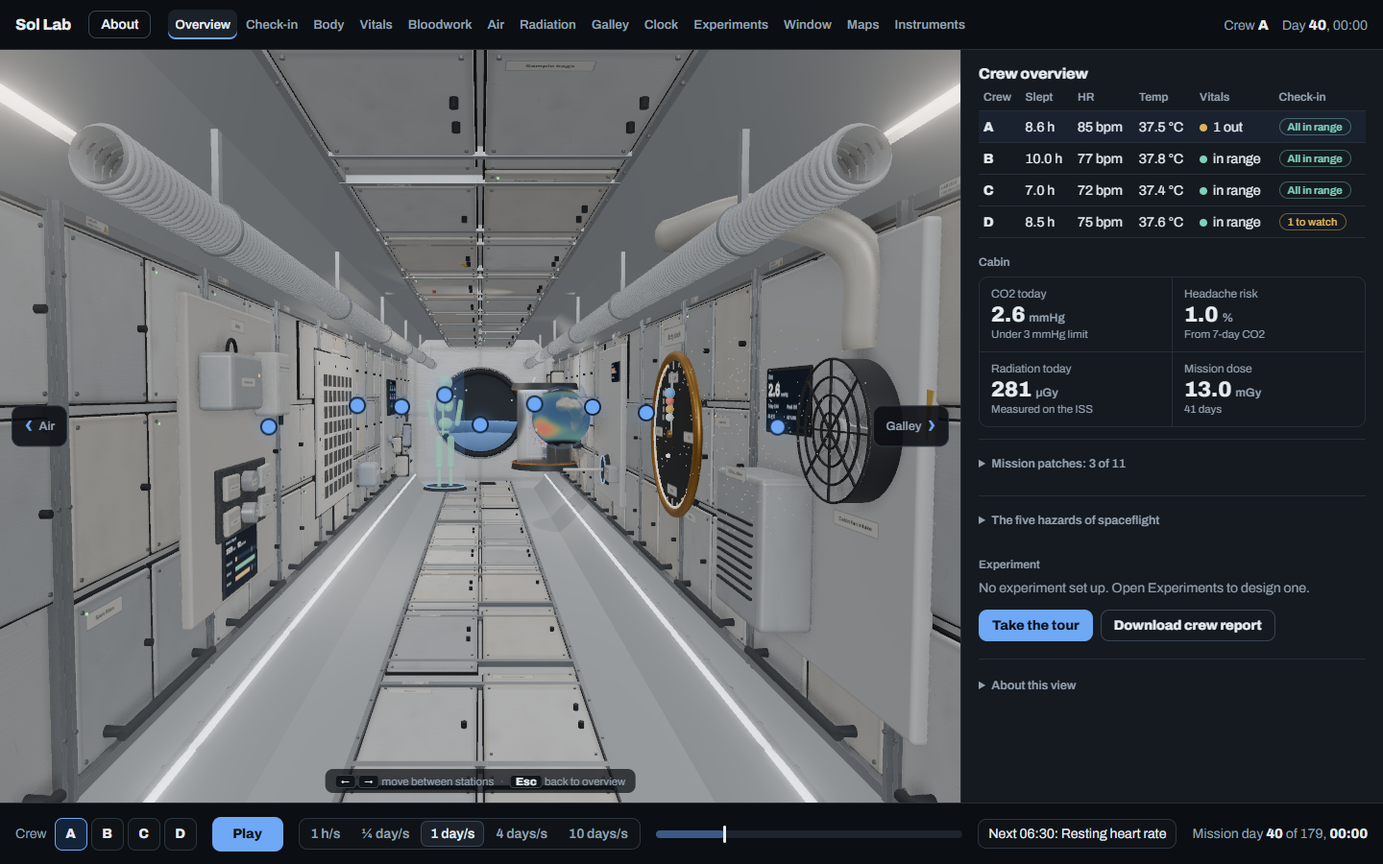
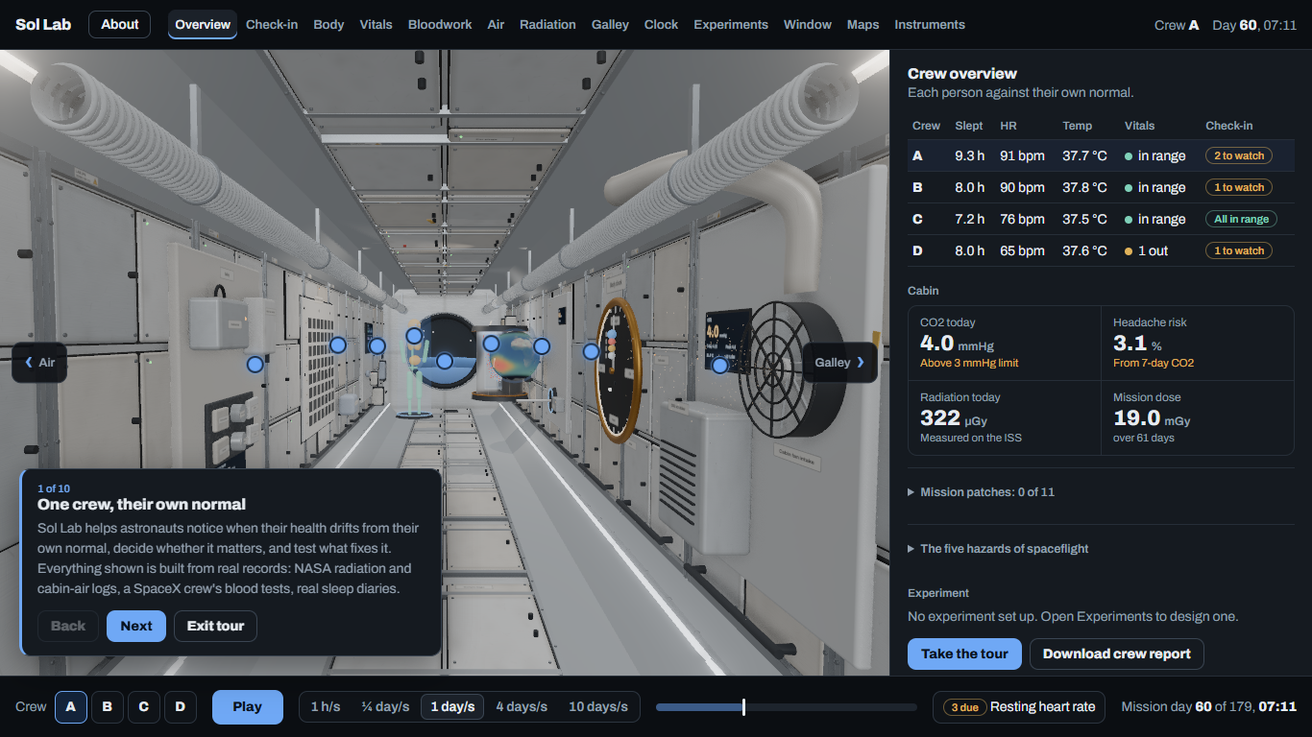
Judge's-view pass: fix NaN camera on zero-size load and slow-frame glides, open on day 60, rebuilt README and pitch around gather/evaluate/act, judge review with scores

diff --git a/lab/src/main.js b/lab/src/main.js
@@ -130,6 +130,9 @@ async function boot() {
   // the hatch end, on the side walls) sit inside the frame at the stage's current shape.
   const fitOverview = () => {
     const halfW = Math.tan(THREE.MathUtils.degToRad(camera.fov / 2)) * camera.aspect;
+    // A page opened in a hidden or zero-size window has no aspect yet; keep the default view
+    // until a real size arrives (a NaN here used to break every later camera move).
+    if (!Number.isFinite(halfW) || halfW <= 0) return;
     views.overview.pos.z = THREE.MathUtils.clamp(3.7 + (W + 0.05) / (0.8 * halfW), 5.4, 8.5);
     if (rig.current === "overview") rig.go("overview", { duration: 0 });
   };
@@ -137,7 +140,7 @@ async function boot() {
   window.addEventListener("resize", () => { R.onResize(); fitOverview(); });
 
   // ---------------- state ----------------
-  const S = { tab: "overview", met: 0.3, bodyPart: "heart", mapsOn: false, playing: false, speed: 1, crewSel: 0, dest: "iss", destLabel: DESTINATIONS.iss.label, simHours: dayStartHours, clockLux: 300, brightWake: false };
+  const S = { tab: "overview", met: 60.3, bodyPart: "heart", mapsOn: false, playing: false, speed: 1, crewSel: 0, dest: "iss", destLabel: DESTINATIONS.iss.label, simHours: dayStartHours, clockLux: 300, brightWake: false };
   const E = {
     step: 1, maxStep: 1, intervention: "caffeine", outcomeKey: "sleep_latency", speed: INTERVENTIONS.caffeine.speed,
     delta: OUTCOMES.sleep_latency.delta, thr: 0.95, mode: "hidden", practiceMult: 1.5, noise: "sim", crewMode: false,
@@ -289,7 +292,7 @@ async function boot() {
 
   PANELS.overview = {
     mount(root) {
-      root.innerHTML = `<h2>Crew overview</h2><p class="lede">Each measure is compared with that person's own pre-flight range, not a population norm. Amber marks a measure outside that range; nothing alarms.</p>
+      root.innerHTML = `<h2>Crew overview</h2><p class="tagline">Each person against their own normal.</p><p class="lede">Each measure is compared with that person's own pre-flight range, not a population norm. Amber marks a measure outside that range; nothing alarms.</p>
         <table class="grid" id="ovCrew"><thead><tr><th>Crew</th><th>Slept</th><th>HR</th><th>Temp</th><th>Vitals</th><th>Check-in</th></tr></thead><tbody></tbody></table>
         <h3>Cabin</h3><div class="kpis" id="ovCabin"></div>
         <details class="fold"><summary id="ovPatchTitle">Mission patches</summary><div class="patches" id="ovPatches"></div></details>
@@ -316,7 +319,7 @@ async function boot() {
       $("#ovCabin").innerHTML = kpi("CO2 today", env.co2[i].toFixed(1), "mmHg", env.co2[i] > AIR_LIMITS.co2_1h_mmHg ? "Above 3 mmHg limit" : "Under 3 mmHg limit", env.co2[i] > AIR_LIMITS.co2_1h_mmHg)
         + kpi("Headache risk", (env.headache[i] * 100).toFixed(1), "%", "From 7-day CO2", env.headache[i] > 0.01)
         + kpi("Radiation today", Math.round(radToday()), "µGy", "Measured on the ISS", false)
-        + kpi("Mission dose", (radTotal() / 1000).toFixed(1), "mGy", `${today() + 1} days`, false);
+        + kpi("Mission dose", (radTotal() / 1000).toFixed(1), "mGy", `over ${today() + 1} day${today() ? "s" : ""}`, false);
       $("#ovExp").textContent = !E.mission ? "No experiment set up. Open Experiments to design one." : E.started ? `Day ${E.day} of ${E.days}: "${intervention().label}" on ${outcome().label.toLowerCase()}${E.crew ? ", whole crew" : ""}.` : E.done ? "Finished. See Experiments for the result." : E.locked ? "Plan locked; ready to start." : "Plan being set up.";
     },
   };
@@ -639,7 +642,8 @@ async function boot() {
       const labels = BLOOD.timepoints.map((t) => t.replace("L-", "−").replace("R+", "+"));
       for (const p of BLOOD.panels) for (const a of p.analytes) {
         const row = $(`[data-b="${a.key}"]`), st = bloodState(k, a);
-        row.querySelector(".val").innerHTML = st.ret == null ? "–" : `${st.ret} <small>${esc(a.unit)}</small>`;
+        const dec = Math.max(...st.vals.filter((v) => v != null).map((v) => (String(v).split(".")[1] || "").length));
+        row.querySelector(".val").innerHTML = st.ret == null ? "–" : `${st.ret.toFixed(Math.min(2, dec))} <small>${esc(a.unit)}</small>`;
         const s = row.querySelector(".state");
         s.textContent = st.text;
         s.className = `state ${st.cls}`;
@@ -664,7 +668,7 @@ async function boot() {
       const d = today(), rate = radiation.rateAt();
       $("#radH").textContent = `Daily dose, 60 days`;
       $("#radK").innerHTML = kpi("Today", Math.round(radToday()), "µGy", `Typical ${Math.round(radMean)}`, false)
-        + kpi("Mission so far", (radTotal() / 1000).toFixed(1), "mGy", `${d + 1} days`, false)
+        + kpi("Mission so far", (radTotal() / 1000).toFixed(1), "mGy", `over ${d + 1} day${d ? "s" : ""}`, false)
         + kpi("Rate now", rate.toFixed(1), "µGy/h", rate > 20 ? "High-dose region" : "Quiet orbit", rate > 20)
         + kpi("180-day mission", ((radMean * 180) / 1000).toFixed(0), "mGy", "Projected", false);
       $("#radChart").innerHTML = bars(radSeries, { upTo: d, window: 60, unit: "µGy" });

diff --git a/lab/index.html b/lab/index.html
@@ -27,6 +27,8 @@
         <form method="dialog"><button class="about-close" aria-label="Close">Close</button></form>
         <h2 id="aboutTitle">About Sol Lab</h2>
         <p>A health tool for astronauts. Each crew member logs a few measurements a day; the tool compares them with that person's own normal, says plainly whether anything needs attention and what to do, and helps test which changes actually help.</p>
+        <h3>Why it matters</h3>
+        <p>Far from Earth, crews must judge their own health. Comparing each person with their own normal catches changes that population ranges miss, and a fair self-test stops anyone trusting a lucky streak. The same approach helps people far from a doctor on Earth: polar and offshore crews, rural patients, anyone tracking a long-term condition.</p>
         <h3>Using it</h3>
         <p>Tabs along the top open each station; click objects in the module to jump to them. Space plays the mission, 1 to 0 switch tabs, Left and Right move between stations, Shift with Left or Right steps a day. The <b>1 h/s</b> speed runs the daily routine with reminders. Each tab has an "About this view" section at the bottom with its sources.</p>
         <h3>Real data</h3>

diff --git a/lab/src/scene/cameraRig.js b/lab/src/scene/cameraRig.js
@@ -1,6 +1,10 @@
 import * as THREE from "three";
 import gsap from "gsap";
 
+// Moves are timed by the clock, not by frames: on a slow machine (or software rendering) GSAP's
+// default lag smoothing stretched a 2-second glide into a minute.
+gsap.ticker.lagSmoothing(0);
+
 // Camera glides between stations with an ease-in-out move, then holds still. Reduced motion:
 // jumps instead of glides.
 export function createCameraRig(camera, dom, views) {
@@ -15,7 +19,9 @@ export function createCameraRig(camera, dom, views) {
     current = name;
     gsap.killTweensOf(camera.position);
     gsap.killTweensOf(target);
-    if (reduced || duration === 0 || window.__solInstant) {
+    const p = camera.position;
+    const broken = !Number.isFinite(p.x + p.y + p.z) || !Number.isFinite(target.x + target.y + target.z);
+    if (reduced || duration === 0 || window.__solInstant || broken) {
       camera.position.copy(v.pos);
       target.copy(v.look);
       onDone && onDone();

diff --git a/lab/src/scene/renderer.js b/lab/src/scene/renderer.js
@@ -25,7 +25,7 @@ export function createRenderer(container, { quality = "high" } = {}) {
   scene.environment = pmrem.fromScene(new RoomEnvironment(), 0.04).texture;
   scene.environmentIntensity = 0.32;
 
-  const camera = new THREE.PerspectiveCamera(56, container.clientWidth / container.clientHeight, 0.02, 1500);
+  const camera = new THREE.PerspectiveCamera(56, container.clientWidth / container.clientHeight || 16 / 9, 0.02, 1500);
 
   const size = () => [container.clientWidth, container.clientHeight];
   const [w, h] = size();
@@ -49,6 +49,7 @@ export function createRenderer(container, { quality = "high" } = {}) {
 
   const onResize = () => {
     const [nw, nh] = size();
+    if (!nw || !nh) return; // hidden or minimised: keep the last good size
     camera.aspect = nw / nh;
     camera.updateProjectionMatrix();
     renderer.setSize(nw, nh);

diff --git a/lab/src/ui/tour.js b/lab/src/ui/tour.js
@@ -37,7 +37,7 @@ export function createTour({ host, show }) {
     if (b.dataset.t === "next") { if (k < TOUR.length - 1) { k++; render(); } else { stop(); onDone && onDone(); } }
   });
   addEventListener("keydown", (e) => { if (!el.hidden && e.key === "Escape") stop(); });
-  function start(done) { onDone = done; k = 0; el.hidden = false; render(); }
-  function stop() { el.hidden = true; }
+  function start(done) { onDone = done; k = 0; el.hidden = false; host.classList.add("touring"); render(); }
+  function stop() { el.hidden = true; host.classList.remove("touring"); }
   return { start, stop, active: () => !el.hidden };
 }

diff --git a/lab/src/styles.css b/lab/src/styles.css
@@ -345,3 +345,6 @@ input[type="file"] { color: var(--muted); }
 .bp-tag.dim { opacity: 0.35 !important; }
 .bp-note { position: relative; padding: 8px 14px; color: #9db6dc; font-size: 0.82em; border-top: 1px solid rgba(140, 180, 240, 0.2); }
 @media (prefers-reduced-motion: reduce) { .bp-tag { transition: none; } }
+
+.tagline { margin: 0 0 10px !important; color: var(--muted); }
+.touring .nav-hint { display: none; }

diff --git a/README.md b/README.md
@@ -1,37 +1,67 @@
 # Sol Lab
 
-**NASA Space Apps 2026, "Create Health Monitoring Software for Astronauts on Space Missions."** Team owner: Palash (San Marino, CA).
+**A daily health check-in for astronauts that compares every reading with their own normal, says plainly what to do and when to call the flight surgeon, and helps them test what actually fixes it.**
 
-Every other entry we found watches astronauts and raises alerts. Sol Lab helps a crew member find out what actually works for *their own* body during a mission: design a small, fair experiment ("does cutting caffeine after noon help me fall asleep faster?"), run it in a 3D station module, and get an honest verdict, including "not settled". A whole crew can run the same experiment, and each person's answer gets sharper from what the crew shares.
+NASA Space Apps 2026, "Create Health Monitoring Software for Astronauts on Space Missions". Team: Palash (owner) and ktm331, San Marino, CA.
 
-It is laid out as a crew health console: a 3D station module on the left, an inspector on the right, and a mission timeline along the bottom. Each station in the module is a working part of the tool. Keys 1 to 0 switch stations, Space plays the mission (1 h/s runs the daily routine with gentle reminders), and the overview exports a crew report.
+**Try it:** `https://palashraks-afk.github.io/NASA-Space-Apps/` (live once Pages is switched on, see below). It opens with a 10-step guided tour.
 
-![Console overview](docs/img/console-overview.png)
+![Overview](docs/img/console-overview.png)
+
+## Gather, evaluate, act
+
+| Gather | Evaluate | Act |
+|---|---|---|
+| ![Check-in](docs/img/checkin.png) | ![Body figure](docs/img/body.png) | ![Experiments](docs/img/crew-running.png) |
+| A two-minute daily check-in: blood pressure, heart rate, blood sugar, temperature, sleep, mood, exercise. Typed in, or imported from any device as CSV or FHIR. Timed reminders follow the daily routine. | Each value is compared with that person's own normal and given one of three calm levels: within range, keep an eye on it, talk to the flight surgeon. A clickable 3D body shows which parts are affected and how spaceflight changes them. | Every non-normal level comes with what to do next. When something keeps drifting, the crew runs a fair self-experiment and gets an honest verdict, including "not settled". |
+
+## Why it matters
+
+On a Mars mission a message to Earth takes up to 22 minutes each way, so crews must judge their own health. Population ranges miss changes that are large for one person but normal for another; comparing each astronaut with their own normal catches them earlier, and a fair self-test stops a crew member trusting a lucky streak. The same approach helps people far from a doctor on Earth: Antarctic and offshore crews, rural patients, anyone tracking a long-term condition at home.
+
+## Built on real data
+
+| Record | Source | In the app |
+|---|---|---|
+| 123,695 ISS radiation readings, plus daily dose in six modules | NASA OSDR RadLab (DLR DOSTEL, REM detectors) | Radiation globe, module map, orbit map |
+| 358 days of ISS cabin CO2, temperature and humidity | NASA OSDR Environmental Data App | Air station, life-support map, headache risk |
+| Blood tests of the four Inspiration4 astronauts, before and after flight | NASA OSDR OSD-569, OSD-575 (SpaceX mission) | Bloodwork |
+| Sleep diaries of 49 people | Baigutanova et al. 2025, CC BY | Sleep values, experiment validation |
+| Nutrients of 19 foods | USDA FoodData Central | Galley |
+| ISS orbital elements | CelesTrak, propagated with SGP4 | Window, ground track |
+
+Where nobody logged a value, it is simulated and labelled "simulated" on screen. Records from different people and years are combined into one mission.
+
+## How it answers the brief
+
+| The brief asks | Where |
+|---|---|
+| Gather indicators (keyboard, clicks, files) | Check-in; Instruments import |
+| Evaluate status, colour at a glance | Three levels everywhere; overview; body figure |
+| Guidance on treatment and improvement | Actions on every non-normal level; experiments |
+| When to involve the flight surgeon | "For the flight surgeon" box |
+| Blood pressure, heart rate, blood sugar, temperature, sleep, mood | All six, plus exercise |
+| Five hazards of spaceflight | Overview, each linked to its stations |
+| Clickable human figure | Body |
+| Routine prompts, gamification, charts, instructions | Reminders, mission patches, every station, "How to measure" on every card |
+
+## Validated, not just built
+
+- On 49 real people's sleep diaries the self-experiment engine made a false call 0.68% of the time; its 95% intervals covered 94.7% to 97.3% (pre-registered, [docs/STUDIES_RESULTS.md](docs/STUDIES_RESULTS.md)).
+- Two pre-registered checks failed and are reported, not hidden: a first pooling method under-covered (fixed and re-tested), and the circadian model locks onto a Mars day more easily than a 2007 human study found.
+- Guidance cut-offs follow ACC/AHA, ADA, CDC, AHA and AASM; where no published cut-off exists, the team's choice is marked for clinician review.
+- 38 automated tests; every push is checked, tested and built.
+
+## More screens
 
 | | |
 |---|---|
-| ![Daily check-in](docs/img/checkin.png) | ![Overview with hazards](docs/img/console-overview.png) |
-| Check-in: the astronaut logs blood pressure, heart rate, blood sugar, temperature, sleep, mood and exercise, each with how-to instructions; every value gets one of three calm levels (within range / keep an eye on it / talk to the flight surgeon) with actions to take. | Overview: each crew member's vitals and check-in status, cabin air, radiation, and NASA's five hazards of spaceflight linked to the stations that track them. |
-| ![Body figure](docs/img/body.png) | ![Orbit and radiation map](docs/img/map-orbit.png) |
-| Body: a clickable 3D figure; each part (brain, eyes, heart, lungs, gut, bones, muscles, immune system) is coloured by today's measurements and explains what it does and how spaceflight affects it. | Maps: the ISS ground track from real orbital elements over Earth's day and night, with the radiation dose measured along the orbit. |
-| ![Station module map](docs/img/map-station.png) | ![Life support map](docs/img/map-life-support.png) |
-| Station map: measured daily dose in six ISS modules (REM detectors, Dec 2019). | Life support: the CO2, water and oxygen loop, with the replayed day's real cabin readings. |
-| ![Instruments blueprint](docs/img/instruments.png) | |
-| Instruments: the real ISS hardware behind each reading (blood pressure unit, Bio-Monitor, DOSTEL, CDRA, T2 and more) as exploded blueprints, plus universal import of CSV or FHIR files from any device. Parts and sources: [docs/INSTRUMENTS.md](docs/INSTRUMENTS.md). | |
-| ![Medical station](docs/img/medical.png) | ![Air station](docs/img/air.png) |
-| Medical: heart rate, HRV, core temperature and sleep for each crew member, against their own pre-flight range. Out-of-range values are marked, never alarmed. | Air: cabin CO2, 7-day average, headache risk (Law et al. 2014), temperature and humidity against NASA-STD-3001. The fan and airflow respond to CO2. |
-| ![Radiation station](docs/img/radiation.png) | ![Bloodwork](docs/img/bloodwork.png) |
-| Radiation: real ISS dose readings (NASA OSDR RadLab, DOSTEL-1, 2022) on a globe; the station marker flies a real day of track through the South Atlantic Anomaly. | Bloodwork: real blood tests of the four Inspiration4 astronauts (SpaceX, 2021; NASA OSDR), each compared with their own pre-flight draws. |
-| ![Galley station](docs/img/galley.png) | ![Crew mode mid-mission](docs/img/crew-running.png) |
-| Galley: each day's menu with USDA nutrient values, against NASA exploration targets for vitamin D, calcium and sodium. | Experiments: a randomized self-experiment run by the whole crew; each member's chance it works, with the crew and alone. |
-| ![Body clock on Mars](docs/img/body-clock.png) | ![Mars through the window](docs/img/window-mars.png) |
-| Body clock: a published circadian model running for four crew. | Destination: real ISS orbit (SGP4, CelesTrak), Moon or Mars. |
-
-## Guided tour
-
-The app opens with a 10-step tour on first visit (or add `?tour=1` to the address, or press **Tour** in the top bar). Mission patches on the overview reward check-ins, exploring and finished experiments; nothing is ever taken away.
-
-![Guided tour](docs/img/tour.png)
+| ![Orbit and radiation map](docs/img/map-orbit.png) | ![Instruments blueprint](docs/img/instruments.png) |
+| Maps: real ISS ground track over day and night with the measured dose rate; a module dose map; the life-support loop. | Instruments: the real ISS hardware behind each reading as exploded blueprints ([docs/INSTRUMENTS.md](docs/INSTRUMENTS.md)). |
+| ![Bloodwork](docs/img/bloodwork.png) | ![Radiation station](docs/img/radiation.png) |
+| Bloodwork: Inspiration4 astronauts against their own pre-flight draws. | Radiation: the globe lights up over the South Atlantic Anomaly. |
+| ![Air station](docs/img/air.png) | ![Body clock](docs/img/body-clock.png) |
+| Air: real ISS CO2 against the 3 mmHg limit. | Body clock: a published circadian model for four crew. |
 
 ## Run it
 
@@ -41,17 +71,13 @@ npm install
 npm run dev      # http://localhost:5199
 npm test         # 38 tests: statistics engine, pooling, missions, orbit, crew health, guidance, real data files
 npm run check    # syntax check of every file
+npm run verify   # check + tests + production build
 npm run build    # static, works offline from any folder (dist/)
 ```
 
-## What is new, and how we checked
+## Novelty
 
-- **Crew-run self-experiments for spaceflight.** We found no N-of-1, single-case or crew-run randomized self-experiment work in spaceflight or analog missions, and none among about ten public Space Apps 2026 repos for this challenge (search on 2026-11-01; private work cannot be ruled out). N-of-1 apps and pooled N-of-1 trials exist on Earth; the spaceflight crew application is the new part. Details: [docs/STUDIES_RESULTS.md](docs/STUDIES_RESULTS.md).
-- **Validated, not just built.** Three studies were pre-registered before running ([docs/STUDIES_PREREG.md](docs/STUDIES_PREREG.md)):
-  - On 49 real people's sleep diaries, the engine made a false call 0.68% of the time when nothing was there, its 95% intervals covered 94.7% to 97.3%, and the in-app power preview matched real-data power within 4 points.
-  - Crew pooling cut each person's error by 20% to 45%. Our first pooling method failed its coverage bar (83% to 86%); the fixed method, pre-registered after that failure, passed (90.9% to 97.8%).
-  - The circadian model failed one pre-registered check against a 2007 human Mars-sol study; the app says so.
-- **Honest about limits.** A single four-week self-experiment usually ends "not settled" (about 10% to 14% of the time it settles a change 1.5 times the smallest worthwhile one). The app shows this before you start.
+We found no crew-run randomized self-experiment tool for spaceflight or analog missions in public sources, and none among the public entries for this challenge (searched 2026-11-01; private work cannot be ruled out). Self-experiments (N-of-1 trials) exist on Earth; applying them to a crew in flight, alongside personal-baseline monitoring on real mission data, is the new part.
 
 ## Where things are
 
@@ -59,7 +85,8 @@ npm run build    # static, works offline from any folder (dist/)
 - `docs/design.md`: concept, features, art direction
 - `docs/STUDIES_PREREG.md`, `docs/STUDIES_RESULTS.md`: validation studies
 - `docs/BUILD_LOG.md`: every decision made during the build, with reasons
-- `docs/PITCH.md`: 30-second summary, demo script, claims we can and cannot make
+- `docs/PITCH.md`: one sentence, 30-second version, demo script, how it answers the brief, claims we can and cannot make
+- `docs/GAP_ANALYSIS.md`, `docs/JUDGE_REVIEW.md`: honest scoring against the criteria and what was fixed
 - `analysis/`: all study outputs and simulations
 - `research_notes/`: judging research, competitor field, idea screening, evidence
 - `archive/`: earlier concepts (CALLSIGN, ECHO), kept for the record

diff --git a/docs/PITCH.md b/docs/PITCH.md
@@ -1,32 +1,58 @@
 # Pitch material
 
+## One sentence
+
+Sol Lab gives each astronaut a daily check-in that compares every reading with their own normal, says plainly what to do and when to call the flight surgeon, and helps them test which change actually fixes it, built on real NASA and SpaceX crew data.
+
 ## 30-second version
 
-Astronauts carry most of the responsibility for spotting and fixing changes in their own health, and what works differs from person to person. Every entry we found monitors and alerts. Sol Lab lets a crew member find out what works for their own body: design a small, fair experiment, run it in a 3D station module, and get an honest answer, including "not settled". Run it as a crew, and each person's answer gets sharper from what the crew shares. We checked it on 49 real people's sleep diaries before trusting it.
+On long missions astronauts have to spot and fix their own health problems. Sol Lab does three things. **Gather:** a two-minute daily check-in (blood pressure, heart rate, blood sugar, temperature, sleep, mood, exercise), typed in or imported from any device. **Evaluate:** every value is compared with that person's own normal and given one of three calm levels, with what to do next and when the flight surgeon should hear about it. **Act:** when something drifts, the crew can run a fair self-experiment and get an honest answer, including "not settled". It runs on real records: ISS radiation and cabin air from NASA's open data, and the Inspiration4 crew's blood tests.
 
-## Demo script (about 3 minutes)
+## Demo script (3 minutes)
 
-1. **Window (20 s).** Opening drift back from the glass; Earth below on a real ISS pass (CelesTrak elements, SGP4). Switch to Mars: "a sol is 24 hours 39 minutes."
-2. **Choose what to test (30 s).** "No caffeine after noon" against usual timing, measured by time to fall asleep. Point out: the smallest change worth acting on is the crew member's call; "how fast does it act" sets the design; the odds of a clear answer appear before starting.
-3. **Randomize (20 s).** Tokens leave the cargo bag and drift in zero gravity onto their days. Click one mid-flight. Lock the plan and save it: this is a pre-registration file.
-4. **Run as a crew (40 s).** Switch to "the whole crew (4)". Run at 10 days a second. The evidence chamber: every dot is a possible value of the true change; blue means works, grey too small to matter, red backfires; watch it tighten. Right panel: each member's chance with the crew versus alone.
-5. **Result (30 s).** The table: with the crew versus alone, against the hidden truth. Say plainly that "not settled" is common for one person, and that this is the point: it stops you trusting a lucky streak.
-6. **Body clock (20 s).** Mars, dim light: beads slip off the hand. Light later in the day keeps clocks aligned, consistent with a 2007 human Mars-sol study; our model is approximate and says so.
-7. **Close (20 s).** Validation: false calls under 1% on real diaries, calibrated intervals, two pre-registered checks that failed and were reported.
+The app opens with a guided tour; the demo follows it.
+
+1. **Overview (20 s).** "Four crew, one module. Each line compares a person with their own normal, not a population average. Nothing beeps; a colour and a word say whether to look."
+2. **Check-in (40 s).** Type a blood pressure of 145/92. The card turns amber: "Recheck after 5 minutes of rest; if it stays this high for 3 days, raise it at the next medical conference." Open "How to measure": instructions written for weightlessness. Point to the daily routine and the quiet reminder at 07:15.
+3. **Body (20 s).** Click the heart on the 3D figure: today's linked readings, what spaceflight does to it, which of NASA's five hazards apply.
+4. **Real data (40 s).** Bloodwork: the Inspiration4 astronauts' blood counts before launch and after landing, flagged only beyond normal day-to-day variation. Air: real ISS CO2 from 2016, above today's 3 mmHg limit. Radiation: 123,695 real readings; the globe lights up over South America, where more than half the dose comes from.
+5. **Act (40 s).** Experiments: "Does no caffeine after noon help me fall asleep?" Randomize, lock the plan, run as a crew at 10 days a second, read the verdict. "It often says 'not settled'. That is the point: it stops a crew member trusting a lucky streak."
+6. **Hardware (10 s).** Instruments: the real ISS devices behind each reading, exploded into parts; import a FHIR file from any device.
+7. **Close (10 s).** "Gather, evaluate, act. Checked on 49 real people's sleep diaries: false calls under 1%."
+
+## How it answers the brief
+
+| The brief asks | Where in Sol Lab |
+|---|---|
+| Gather health indicators (keyboard, clicks, files) | Check-in; Instruments import (CSV, FHIR) |
+| Evaluate status; colour coding at a glance | Three levels on every reading; overview table; coloured body figure |
+| Act: guidance on treatment and improvement | Actions on every non-normal level; self-experiments |
+| When to involve the crew or flight surgeons | "For the flight surgeon" box; top level |
+| Blood pressure, heart rate, blood sugar, temperature, sleep, mood | All six, plus exercise |
+| The five HRP hazards | Overview list, each linked to its stations |
+| Clickable human figure | Body tab |
+| Prompts as part of the routine | Daily routine with timed reminders |
+| Gamification | Mission patches, check-in streak |
+| Charts over time | Every station |
+| Simple instructions and explanations | "How to measure" on every card; guided tour |
+| Different environments | Station, Moon base, Mars |
 
 ## Claims we can make
 
-- No N-of-1 or crew-run randomized self-experiment work in spaceflight or analog missions was found in public sources on 2026-11-01, and none among about ten public Space Apps 2026 repos for this challenge.
-- On 49 real people's sleep diaries: false calls 0.68%, interval coverage 94.7% to 97.3%, power preview within 4 points of real-data power.
+- Real data: ISS radiation (NASA OSDR RadLab: 123,695 DOSTEL-1 readings, plus six modules), ISS cabin air (358 days, NASA OSDR Environmental Data App), Inspiration4 bloodwork (NASA OSDR OSD-569, OSD-575), 49 people's sleep diaries, USDA nutrients, CelesTrak orbit.
+- On 49 real people's sleep diaries the self-experiment engine made a false call 0.68% of the time; interval coverage 94.7% to 97.3% (pre-registered).
 - Crew pooling cut error by 20% to 45% with coverage 90.9% to 97.8% (simulation, pre-registered).
-- ISS orbit and sunrise count are computed from real orbital elements.
+- Guidance levels follow published cut-offs (ACC/AHA, ADA, CDC, AHA, AASM); team-chosen escalation points are marked as such.
+- No crew-run randomized self-experiment tool for spaceflight was found in public sources (searched 2026-11-01).
 
 ## Claims we must not make
 
-- That this is novel in an absolute sense (we searched public sources only; N-of-1 trials and their pooling are established on Earth).
-- That the Mars light-timing result is a discovery (it replicates published 2007 work, and our model locks more easily than people may).
-- That it is clinically validated, a medical device, or tested on astronauts.
-- That a single short self-experiment usually gives an answer (it usually does not).
+- That it is a medical device, clinically validated, or tested on astronauts.
+- That the team-chosen escalation points are clinical standards.
+- That the composite mission is one real crew: records from different people and years are combined, and the app says so.
+- That a single short self-experiment usually settles a question (it usually does not).
+- That the instrument diagrams are flight blueprints (they explain how each class of device works).
+- That the Mars light-timing result is new (it replicates a 2007 study, approximately).
 
 ## AI-use disclosure (for the submission form)
 

diff --git a/docs/JUDGE_REVIEW.md b/docs/JUDGE_REVIEW.md
@@ -1,0 +1,50 @@
+# Judge's-view review
+
+Done 2026-11-04. Method: open the app the way a judge would (new browser profile, no URL parameters, a 1366 by 768 laptop screen, no instructions), follow the guided tour, read the README and pitch, then score the 11 criteria with evidence. Everything found was fixed in the same pass unless listed under "Still open". The walk is repeatable: `node lab/scripts/judge_walk.mjs 1366 768`.
+
+## What the walk found, and what was fixed
+
+| Found | Why a judge would mark it down | Fix |
+|---|---|---|
+| Camera position became NaN when the page loaded in a hidden or zero-size window; every later camera move then failed | A judge who opens the link in a background tab or minimised window sees a frozen view | Size guards in the renderer, overview fit and camera rig; a broken position jumps instead of animating |
+| Camera glides crawled on slow machines (GSAP lag smoothing stretched a 2 s move to about a minute when frames took over 0.5 s) | On a weak laptop the tour shows the wrong station for every step | Lag smoothing off: moves are timed by the clock |
+| First visit opened on mission day 0: empty charts, "0.3 mGy over 1 days" | The first screen looked empty and had a grammar slip | Opens on day 60 at 07:12 with two months of history; plurals fixed |
+| The key-hint bar sat under the tour card | Overlapping UI on the very first screen | Hint hidden while the tour is open |
+| Overview had no one-line statement of what the tool does | A judge reads the first screen for five seconds | Tagline "Each person against their own normal" |
+| README opened with a comparison to other teams and a wall of 16 screenshots | Reads as defensive; the point is buried | README rebuilt: one sentence, live link, gather / evaluate / act, real-data table, how it answers the brief, validation, then more screens |
+| Pitch and demo script predated check-in, body, maps and instruments, and never used the brief's words | The live demo would skip what the brief asks for | New one sentence, 30-second version, 3-minute demo that follows the tour, a brief-to-feature table, updated claims |
+| No stated benefit beyond spaceflight | Impact judges look for it | "Why it matters": message delay to Mars, personal baselines, and Earth uses (polar and offshore crews, rural patients) in the README and the About window |
+| Blood values showed "5" where the lab reported "5.0" | Looks sloppy beside real lab data | Values keep their measured precision |
+
+Earlier passes the same week (see `docs/BUILD_LOG.md` 33 to 38) removed text clutter, sharpened 3D text and added the Instruments tab.
+
+## Walk results after the fixes
+
+Fresh profile, 1366 by 768, software rendering (no GPU, the worst case): all 10 tour steps open the right station with the camera at the right place; no page errors; all 13 tabs fit without scrolling; 12 frames a second even without a GPU; smallest inspector text 10.4 px; tour cards 6 to 17 words. Load took 39 s here because the development server sends 60 unbundled files to a software renderer; the production build is one script and loads much faster.
+
+## Scores
+
+0 to 10, evidence-based. "Before" is the gap analysis of 2026-11-02 after the check-in was added; "now" is after this pass.
+
+| Criterion | Before | Now | Evidence | What would raise it |
+|---|---|---|---|---|
+| Impact | 7 | 8 | Gather, evaluate, act; flight-surgeon guidance; Earth uses stated | A short video showing one crew member's problem being caught and fixed |
+| Creativity | 8 | 8.5 | Self-experiments in flight, 3D station as the interface, exploded instrument blueprints | |
+| Novelty | 7.5 | 7.5 | No crew-run self-experiment tool for spaceflight found; personal baselines and N-of-1 exist on Earth | Cannot honestly go higher |
+| Fit to the brief | 8 | 9 | Every line of the brief mapped to a feature (README table) | Clinician review of the escalation points |
+| Scientific rigor | 9 | 9 | Pre-registered studies with failures reported; cited cut-offs; team choices marked | External clinician review |
+| Depth of real data | 8.5 | 9 | NASA OSDR radiation (two instruments, six modules), ISS cabin air, Inspiration4 bloodwork, real sleep diaries, USDA, CelesTrak | Real astronaut vitals are not public; this is near the ceiling |
+| Feasibility | 7 | 7.5 | Runs offline from any folder, CI builds every push, FHIR/CSV import from any device, zero-size and slow-machine bugs fixed | **Live link** (repo public plus Pages switch), demo video |
+| Profile fit (biomed) | 8 | 8.5 | Clinical cut-offs, reference change values, bloodwork, physiology explainers | |
+| Interactive and visual appeal | 8 | 8.5 | Teammate's surface detail and navigation, blueprints, crisp labels, maps | Teammate's 3D models in place of placeholder props and figure |
+| Technical depth | 8 | 9 | Bayesian engine with AR(1) mixture, empirical-Bayes pooling, circadian model, SGP4, FHIR parsing, three.js pipeline, 38 tests | |
+| Uniqueness | 8 | 8.5 | 3D station plus real mission data plus self-experiments; no public rival combines them | |
+| **Mean** | **7.9** | **8.5** | | |
+
+## Still open (blocks a 9+ mean)
+
+1. **Live link.** The deploy workflow is ready; the owner must make the repo public and set Settings > Pages > Source to "GitHub Actions". Without it a judge cannot open the app.
+2. **Demo video** (60 to 90 s), following the 3-minute script in `docs/PITCH.md`.
+3. **Real 3D models** from the teammate for the body figure and stations (drop-in, `docs/MODELS.md`).
+4. **Clinician review** of the team-chosen escalation points.
+5. **Challenge Resources tab** not yet checked for listed datasets.

diff --git a/docs/BUILD_LOG.md b/docs/BUILD_LOG.md
@@ -59,4 +59,5 @@ Not downloaded: LifeSnaps (single 615 MB archive, over the 500 MB limit agreed b
 36. **Instruments tab.** Seven devices: blood pressure unit (CDL Halter unit on the ISS), pulse oximeter, glucose meter (reference class), smart garment (CSA Bio-Monitor and Astroskin), DOSTEL dosimeter, CDRA CO2 removal, T2 treadmill. Each is drawn as a blueprint (translucent solids, white outlines, grid) that explodes apart; labels are HTML so the text is crisp; click a part or its row to highlight it. Parts are teaching diagrams of how each class of device works, not flight drawings, and say so. Documentation: `docs/INSTRUMENTS.md`, generated from the same data.
 37. **Universal import.** Any device that exports CSV or a FHIR R4 bundle can feed the check-in: Observations are matched by LOINC code (8480-6, 8462-4, 8867-4, 2339-0, 1558-6, 8310-5, 93832-4), units converted (mmol/L, °F, minutes), out-of-range values skipped and counted, and imported values labelled "imported". Tested in unit tests and end to end in the browser (a FHIR file's blood pressure and glucose appeared on the check-in cards).
 38. **A deleted export slipped through `npm run check`** (it only parses files). The page sweep caught it. New `npm run verify` runs check, tests and a production build, which fails on missing exports.
+39. **Judge's-view pass** (`docs/JUDGE_REVIEW.md`, `lab/scripts/judge_walk.mjs`). A fresh browser profile at 1366 by 768 followed the tour. Found and fixed: the camera position became NaN when the page loaded at zero size (every later move then failed); GSAP lag smoothing stretched camera moves to about a minute on very slow frames; first visit opened on an empty day 0; the key hint sat under the tour card; no one-line statement on the overview; README and pitch out of date and not in the brief's words; no Earth-benefit statement; blood values lost their measured precision. Estimated mean across the 11 criteria went from 7.9 to 8.5; the remaining blockers are a live link, a demo video, the teammate's 3D models and a clinician review.
 
